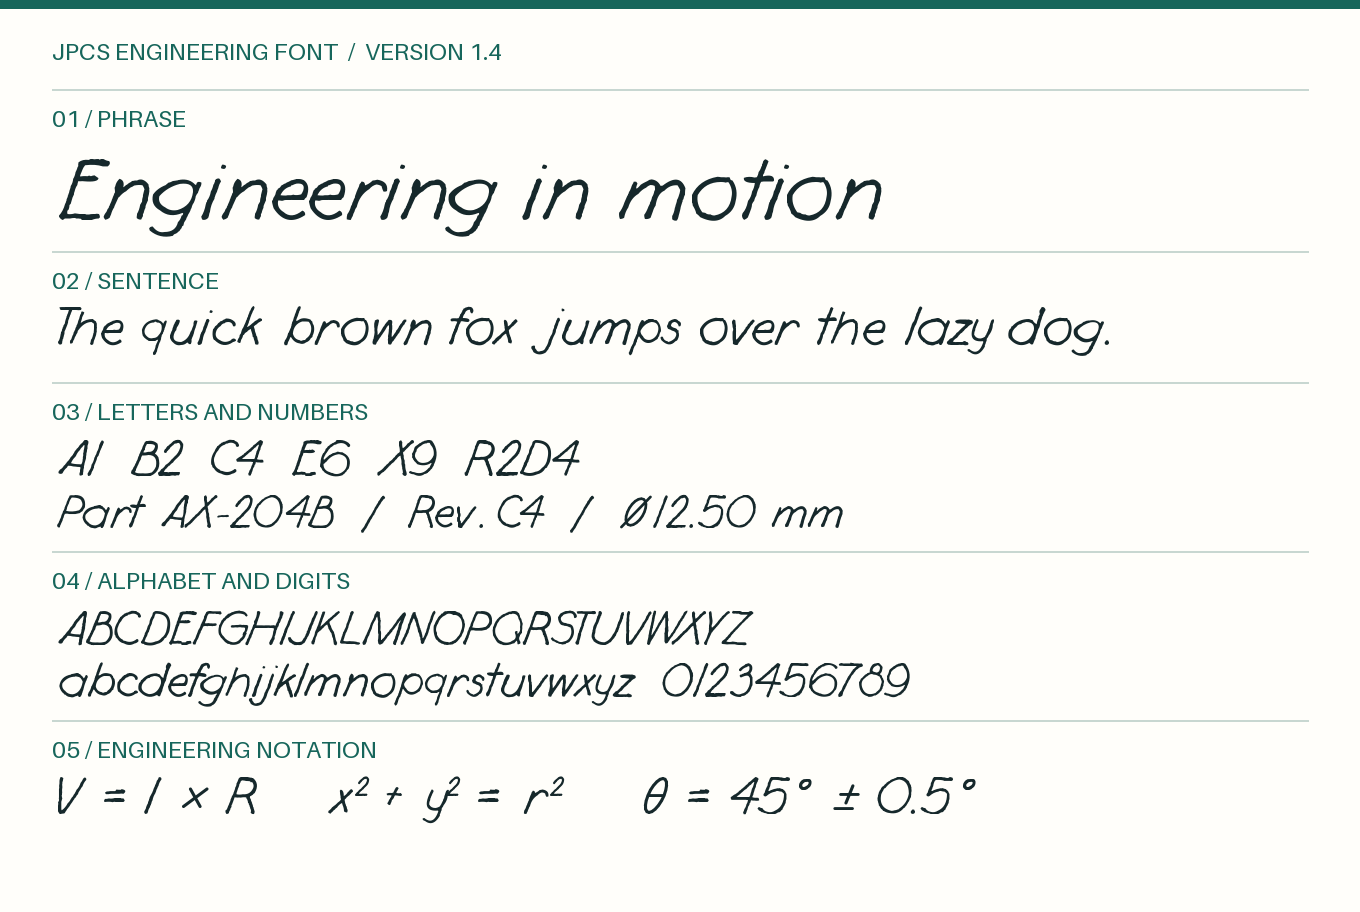
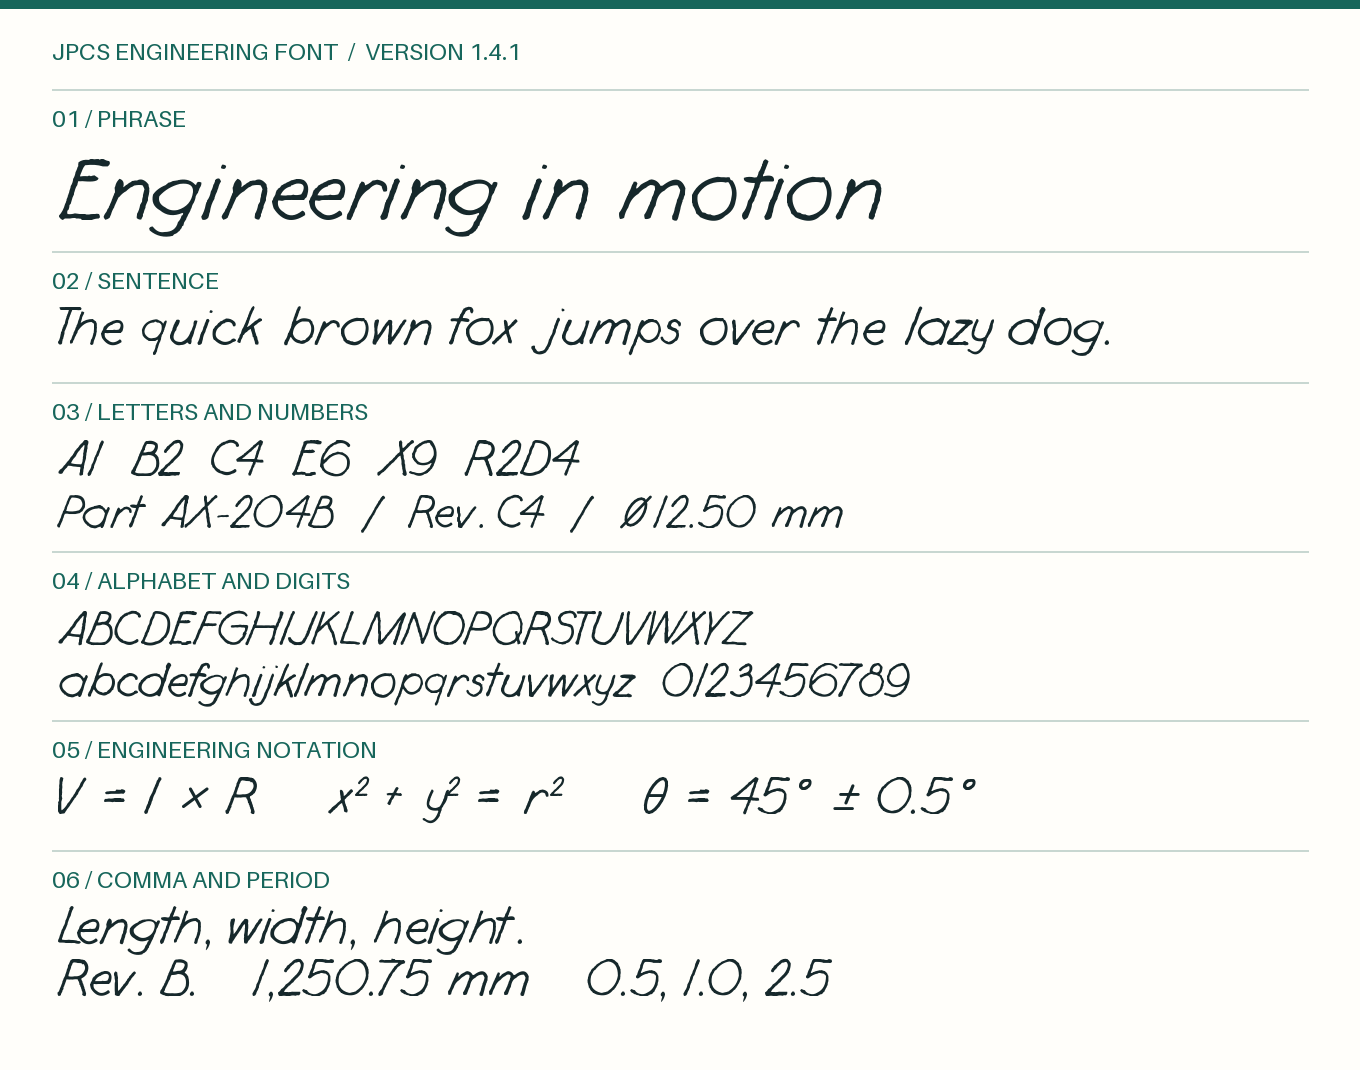
Expand the README font specimen for 1.4.1

diff --git a/scripts/render_glyphs.py b/scripts/render_glyphs.py
@@ -8,7 +8,7 @@ from PIL import Image, ImageDraw, ImageFont
 
 ROOT = Path(__file__).resolve().parents[1]
 ORIGINAL = ROOT / "source/jpcs_engring_font.ttf"
-RELEASE = ROOT / "fonts/JPCS_Engineering_Font_1_4.ttf"
+RELEASE = ROOT / "fonts/JPCS_Engineering_Font_1_4_1.ttf"
 
 
 def coverage(path):
@@ -47,7 +47,7 @@ def main():
     d.rectangle((0, 0, 1359, 8), fill=teal)
     d.text((48, 39), "JPCS ENGINEERING FONT", font=label, fill=teal)
     d.text((45, 73), "Added glyphs", font=heading, fill=ink)
-    d.text((48, 151), f"{len(added)} newly visible characters vs. the original  |  Selected examples from 1.4", font=small, fill=muted)
+    d.text((48, 151), f"{len(added)} newly visible characters vs. the original  |  Selected examples from 1.4.1", font=small, fill=muted)
     for i, (title, chars) in enumerate(rows):
         top = 210 + i * 121
         d.line((48, top, 1311, top), fill="#c8d7d1", width=2)
@@ -63,7 +63,7 @@ def main():
     image.save(ROOT / "docs/added-glyphs.png")
     lines = [
         "# Added glyphs", "",
-        f"{len(added)} codepoints have drawable outlines in the 1.4 that did not in the original.",
+        f"{len(added)} codepoints have drawable outlines in 1.4.1 that did not in the original.",
         f"Of these, {len(placeholder)} were already mapped to blank glyphs; {len(added - placeholder)} had no original mapping.",
         f"The release maps {len(new_mapped)} codepoints overall. The comparison counts encoded characters, not unique glyph IDs.",
         "Whitespace and format controls without drawable outlines are excluded. Redrawn existing symbols are tracked separately.", "",

diff --git a/scripts/render_type_specimen.py b/scripts/render_type_specimen.py
@@ -1,4 +1,4 @@
-"""Render the README typography specimen from the stable 1.4 TTF."""
+"""Render the README typography specimen from the stable 1.4.1 TTF."""
 from pathlib import Path
 
 from PIL import Image, ImageDraw, ImageFont
@@ -16,19 +16,23 @@ def main():
             (46, "abcdefghijklmnopqrstuvwxyz  0123456789"),
         ]),
         ("05 / ENGINEERING NOTATION", [(51, "V = I × R     x² + y² = r²     θ = 45° ± 0.5°")]),
+        ("06 / COMMA AND PERIOD", [
+            (52, "Length, width, height."),
+            (50, "Rev. B.    1,250.75 mm    0.5, 1.0, 2.5"),
+        ]),
     ]
     _, visible = coverage(RELEASE)
     assert {ord(ch) for _, lines in samples for _, line in lines for ch in line if ch != " "} <= visible
-    width, height, inset = 1360, 912, 52
+    width, height, inset = 1360, 1070, 52
     image = Image.new("RGB", (width, height), "#fffefa")
     draw = ImageDraw.Draw(image)
     ink, teal, rule = "#16282b", "#17665b", "#c8d7d1"
     label = ImageFont.load_default(size=24)
     draw.rectangle((0, 0, width - 1, 8), fill=teal)
-    draw.text((inset, 36), "JPCS ENGINEERING FONT  /  VERSION 1.4", font=label, fill=teal)
+    draw.text((inset, 36), "JPCS ENGINEERING FONT  /  VERSION 1.4.1", font=label, fill=teal)
 
     for (title, lines), top, bottom in zip(
-        samples, (89, 251, 382, 551, 720), (251, 382, 551, 720, 867), strict=True
+        samples, (89, 251, 382, 551, 720, 850), (251, 382, 551, 720, 850, 1030), strict=True
     ):
         draw.line((inset, top, width - inset, top), fill=rule, width=2)
         draw.text((inset, top + 14), title, font=label, fill=teal)

diff --git a/README.md b/README.md
@@ -4,13 +4,13 @@ A handwritten engineering lettering font extended with Greek letters, accented L
 
 ## Font preview
 
-![JPCS Engineering Font 1.4 specimen: Engineering in motion. The quick brown fox jumps over the lazy dog. A1 B2 C4 E6 X9 R2D4. Part AX-204B, Rev. C4, diameter 12.50 mm. Uppercase and lowercase A to Z, digits 0 to 9, and sample equations.](docs/type-specimen.png)
+![JPCS Engineering Font 1.4.1 specimen: Engineering in motion. The quick brown fox jumps over the lazy dog. A1 B2 C4 E6 X9 R2D4. Part AX-204B, Rev. C4, diameter 12.50 mm. Uppercase and lowercase A to Z, digits 0 to 9, sample equations, and a comma and period row with “Length, width, height.” and “1,250.75 mm.”](docs/type-specimen.png)
 
 ## Added glyphs
 
 ![Selected added glyphs: Greek, math and electrical symbols, drafting marks and arrows, superscripts and subscripts, accents and punctuation. Examples: Lorem ipsum, V = I × R, and x² + y² = r².](docs/added-glyphs.png)
 
-Version 1.4 maps **465 Unicode characters**. Compared with the original, **370 gained drawable outlines**: 256 were mapped to blank glyphs and 114 were unmapped. See the [complete list of additions](docs/added-glyphs.md). The count excludes whitespace and format controls without outlines and does not count redrawn existing symbols such as `<`, `>`, and `|` as additions.
+Version 1.4.1 maps **465 Unicode characters**. Compared with the original, **370 gained drawable outlines**: 256 were mapped to blank glyphs and 114 were unmapped. See the [complete list of additions](docs/added-glyphs.md). The count excludes whitespace and format controls without outlines and does not count redrawn existing symbols such as `<`, `>`, and `|` as additions.
 
 ## Download
 

diff --git a/docs/added-glyphs.md b/docs/added-glyphs.md
@@ -1,6 +1,6 @@
 # Added glyphs
 
-370 codepoints have drawable outlines in the 1.4 that did not in the original.
+370 codepoints have drawable outlines in 1.4.1 that did not in the original.
 Of these, 256 were already mapped to blank glyphs; 114 had no original mapping.
 The release maps 465 codepoints overall. The comparison counts encoded characters, not unique glyph IDs.
 Whitespace and format controls without drawable outlines are excluded. Redrawn existing symbols are tracked separately.
